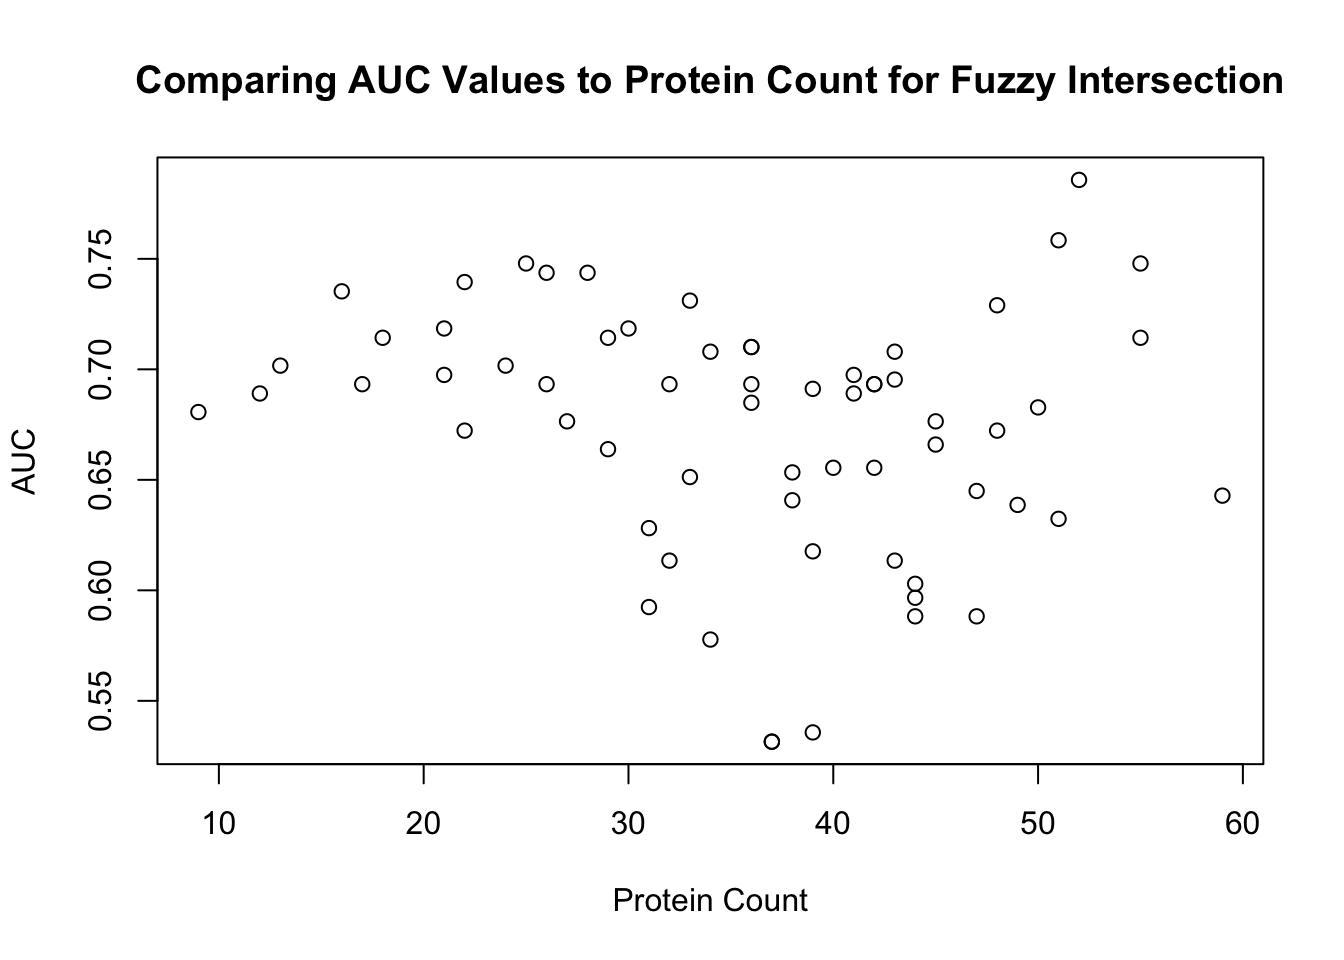
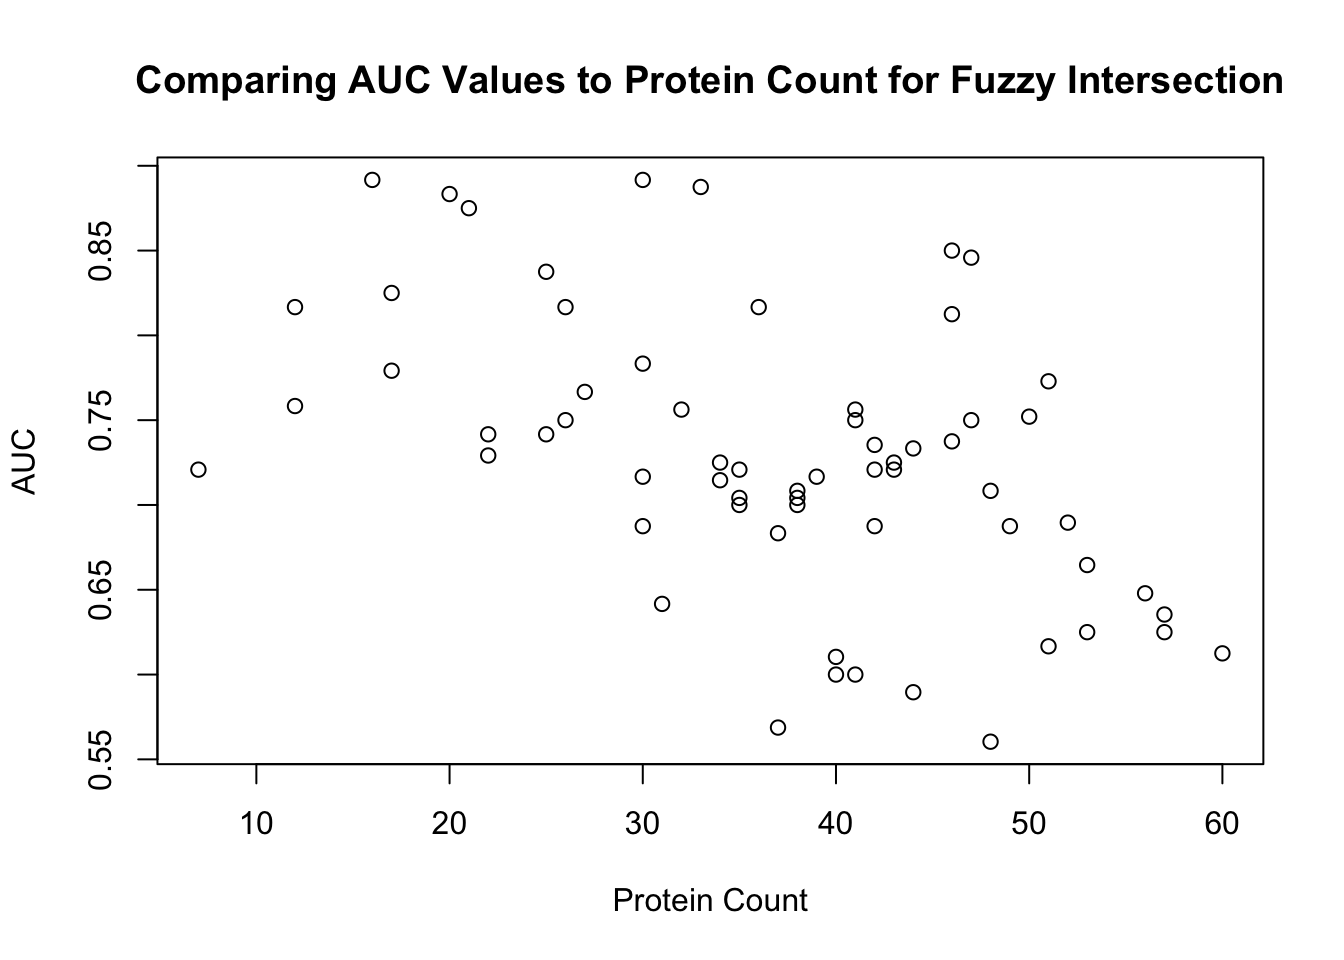
Fixed graphs in report rq, also as a heads up most of my commits are under the username me because my git was not working properly

diff --git a/results/report.html b/results/report.html
@@ -111,6 +111,7 @@ ul.task-list li input[type="checkbox"] {
 <div class="cell">
 <div class="cell-output-display">
 <table class="caption-top table table-sm table-striped small">
+<caption>Metrics for Some Higher Performing Models Sorted by AUC</caption>
 <colgroup>
 <col style="width: 12%">
 <col style="width: 10%">
@@ -132,162 +133,162 @@ ul.task-list li input[type="checkbox"] {
 <tbody>
 <tr class="odd">
 <td style="text-align: left;">sensitivity</td>
-<td style="text-align: right;">0.5882353</td>
-<td style="text-align: right;">15</td>
-<td style="text-align: right;">35</td>
-<td style="text-align: right;">11</td>
-<td style="text-align: left;">Hard</td>
+<td style="text-align: right;">0.6875000</td>
+<td style="text-align: right;">10</td>
+<td style="text-align: right;">10</td>
+<td style="text-align: right;">16</td>
+<td style="text-align: left;">Fuzzy</td>
 </tr>
 <tr class="even">
 <td style="text-align: left;">specificity</td>
-<td style="text-align: right;">0.7857143</td>
-<td style="text-align: right;">15</td>
-<td style="text-align: right;">35</td>
-<td style="text-align: right;">11</td>
-<td style="text-align: left;">Hard</td>
+<td style="text-align: right;">0.9333333</td>
+<td style="text-align: right;">10</td>
+<td style="text-align: right;">10</td>
+<td style="text-align: right;">16</td>
+<td style="text-align: left;">Fuzzy</td>
 </tr>
 <tr class="odd">
 <td style="text-align: left;">accuracy</td>
-<td style="text-align: right;">0.6774194</td>
-<td style="text-align: right;">15</td>
-<td style="text-align: right;">35</td>
-<td style="text-align: right;">11</td>
-<td style="text-align: left;">Hard</td>
+<td style="text-align: right;">0.8064516</td>
+<td style="text-align: right;">10</td>
+<td style="text-align: right;">10</td>
+<td style="text-align: right;">16</td>
+<td style="text-align: left;">Fuzzy</td>
 </tr>
 <tr class="even">
 <td style="text-align: left;">roc_auc</td>
-<td style="text-align: right;">0.8025210</td>
-<td style="text-align: right;">15</td>
-<td style="text-align: right;">35</td>
-<td style="text-align: right;">11</td>
-<td style="text-align: left;">Hard</td>
+<td style="text-align: right;">0.8916667</td>
+<td style="text-align: right;">10</td>
+<td style="text-align: right;">10</td>
+<td style="text-align: right;">16</td>
+<td style="text-align: left;">Fuzzy</td>
 </tr>
 <tr class="odd">
 <td style="text-align: left;">sensitivity</td>
-<td style="text-align: right;">0.5882353</td>
-<td style="text-align: right;">15</td>
-<td style="text-align: right;">40</td>
-<td style="text-align: right;">11</td>
-<td style="text-align: left;">Hard</td>
+<td style="text-align: right;">0.7500000</td>
+<td style="text-align: right;">25</td>
+<td style="text-align: right;">10</td>
+<td style="text-align: right;">30</td>
+<td style="text-align: left;">Fuzzy</td>
 </tr>
 <tr class="even">
 <td style="text-align: left;">specificity</td>
-<td style="text-align: right;">0.7857143</td>
-<td style="text-align: right;">15</td>
-<td style="text-align: right;">40</td>
-<td style="text-align: right;">11</td>
-<td style="text-align: left;">Hard</td>
+<td style="text-align: right;">0.8000000</td>
+<td style="text-align: right;">25</td>
+<td style="text-align: right;">10</td>
+<td style="text-align: right;">30</td>
+<td style="text-align: left;">Fuzzy</td>
 </tr>
 <tr class="odd">
 <td style="text-align: left;">accuracy</td>
-<td style="text-align: right;">0.6774194</td>
-<td style="text-align: right;">15</td>
-<td style="text-align: right;">40</td>
-<td style="text-align: right;">11</td>
-<td style="text-align: left;">Hard</td>
+<td style="text-align: right;">0.7741935</td>
+<td style="text-align: right;">25</td>
+<td style="text-align: right;">10</td>
+<td style="text-align: right;">30</td>
+<td style="text-align: left;">Fuzzy</td>
 </tr>
 <tr class="even">
 <td style="text-align: left;">roc_auc</td>
-<td style="text-align: right;">0.8025210</td>
-<td style="text-align: right;">15</td>
-<td style="text-align: right;">40</td>
-<td style="text-align: right;">11</td>
-<td style="text-align: left;">Hard</td>
+<td style="text-align: right;">0.8916667</td>
+<td style="text-align: right;">25</td>
+<td style="text-align: right;">10</td>
+<td style="text-align: right;">30</td>
+<td style="text-align: left;">Fuzzy</td>
 </tr>
 <tr class="odd">
 <td style="text-align: left;">sensitivity</td>
-<td style="text-align: right;">0.6470588</td>
-<td style="text-align: right;">10</td>
-<td style="text-align: right;">35</td>
-<td style="text-align: right;">8</td>
-<td style="text-align: left;">Hard</td>
+<td style="text-align: right;">0.7500000</td>
+<td style="text-align: right;">25</td>
+<td style="text-align: right;">15</td>
+<td style="text-align: right;">33</td>
+<td style="text-align: left;">Fuzzy</td>
 </tr>
 <tr class="even">
 <td style="text-align: left;">specificity</td>
-<td style="text-align: right;">0.7857143</td>
-<td style="text-align: right;">10</td>
-<td style="text-align: right;">35</td>
-<td style="text-align: right;">8</td>
-<td style="text-align: left;">Hard</td>
+<td style="text-align: right;">0.8000000</td>
+<td style="text-align: right;">25</td>
+<td style="text-align: right;">15</td>
+<td style="text-align: right;">33</td>
+<td style="text-align: left;">Fuzzy</td>
 </tr>
 <tr class="odd">
 <td style="text-align: left;">accuracy</td>
-<td style="text-align: right;">0.7096774</td>
-<td style="text-align: right;">10</td>
-<td style="text-align: right;">35</td>
-<td style="text-align: right;">8</td>
-<td style="text-align: left;">Hard</td>
+<td style="text-align: right;">0.7741935</td>
+<td style="text-align: right;">25</td>
+<td style="text-align: right;">15</td>
+<td style="text-align: right;">33</td>
+<td style="text-align: left;">Fuzzy</td>
 </tr>
 <tr class="even">
 <td style="text-align: left;">roc_auc</td>
-<td style="text-align: right;">0.7983193</td>
-<td style="text-align: right;">10</td>
-<td style="text-align: right;">35</td>
-<td style="text-align: right;">8</td>
-<td style="text-align: left;">Hard</td>
+<td style="text-align: right;">0.8875000</td>
+<td style="text-align: right;">25</td>
+<td style="text-align: right;">15</td>
+<td style="text-align: right;">33</td>
+<td style="text-align: left;">Fuzzy</td>
 </tr>
 <tr class="odd">
 <td style="text-align: left;">sensitivity</td>
-<td style="text-align: right;">0.6470588</td>
+<td style="text-align: right;">0.6250000</td>
 <td style="text-align: right;">10</td>
-<td style="text-align: right;">40</td>
-<td style="text-align: right;">8</td>
-<td style="text-align: left;">Hard</td>
+<td style="text-align: right;">15</td>
+<td style="text-align: right;">20</td>
+<td style="text-align: left;">Fuzzy</td>
 </tr>
 <tr class="even">
 <td style="text-align: left;">specificity</td>
-<td style="text-align: right;">0.7857143</td>
+<td style="text-align: right;">0.9333333</td>
 <td style="text-align: right;">10</td>
-<td style="text-align: right;">40</td>
-<td style="text-align: right;">8</td>
-<td style="text-align: left;">Hard</td>
+<td style="text-align: right;">15</td>
+<td style="text-align: right;">20</td>
+<td style="text-align: left;">Fuzzy</td>
 </tr>
 <tr class="odd">
 <td style="text-align: left;">accuracy</td>
-<td style="text-align: right;">0.7096774</td>
+<td style="text-align: right;">0.7741935</td>
 <td style="text-align: right;">10</td>
-<td style="text-align: right;">40</td>
-<td style="text-align: right;">8</td>
-<td style="text-align: left;">Hard</td>
+<td style="text-align: right;">15</td>
+<td style="text-align: right;">20</td>
+<td style="text-align: left;">Fuzzy</td>
 </tr>
 <tr class="even">
 <td style="text-align: left;">roc_auc</td>
-<td style="text-align: right;">0.7983193</td>
+<td style="text-align: right;">0.8833333</td>
 <td style="text-align: right;">10</td>
-<td style="text-align: right;">40</td>
-<td style="text-align: right;">8</td>
-<td style="text-align: left;">Hard</td>
+<td style="text-align: right;">15</td>
+<td style="text-align: right;">20</td>
+<td style="text-align: left;">Fuzzy</td>
 </tr>
 <tr class="odd">
 <td style="text-align: left;">sensitivity</td>
-<td style="text-align: right;">0.6470588</td>
+<td style="text-align: right;">0.7500000</td>
 <td style="text-align: right;">10</td>
-<td style="text-align: right;">5</td>
-<td style="text-align: right;">2</td>
+<td style="text-align: right;">40</td>
+<td style="text-align: right;">7</td>
 <td style="text-align: left;">Hard</td>
 </tr>
 <tr class="even">
 <td style="text-align: left;">specificity</td>
-<td style="text-align: right;">0.7857143</td>
+<td style="text-align: right;">0.8666667</td>
 <td style="text-align: right;">10</td>
-<td style="text-align: right;">5</td>
-<td style="text-align: right;">2</td>
+<td style="text-align: right;">40</td>
+<td style="text-align: right;">7</td>
 <td style="text-align: left;">Hard</td>
 </tr>
 <tr class="odd">
 <td style="text-align: left;">accuracy</td>
-<td style="text-align: right;">0.7096774</td>
+<td style="text-align: right;">0.8064516</td>
 <td style="text-align: right;">10</td>
-<td style="text-align: right;">5</td>
-<td style="text-align: right;">2</td>
+<td style="text-align: right;">40</td>
+<td style="text-align: right;">7</td>
 <td style="text-align: left;">Hard</td>
 </tr>
 <tr class="even">
 <td style="text-align: left;">roc_auc</td>
-<td style="text-align: right;">0.7857143</td>
+<td style="text-align: right;">0.8833333</td>
 <td style="text-align: right;">10</td>
-<td style="text-align: right;">5</td>
-<td style="text-align: right;">2</td>
+<td style="text-align: right;">40</td>
+<td style="text-align: right;">7</td>
 <td style="text-align: left;">Hard</td>
 </tr>
 </tbody>
